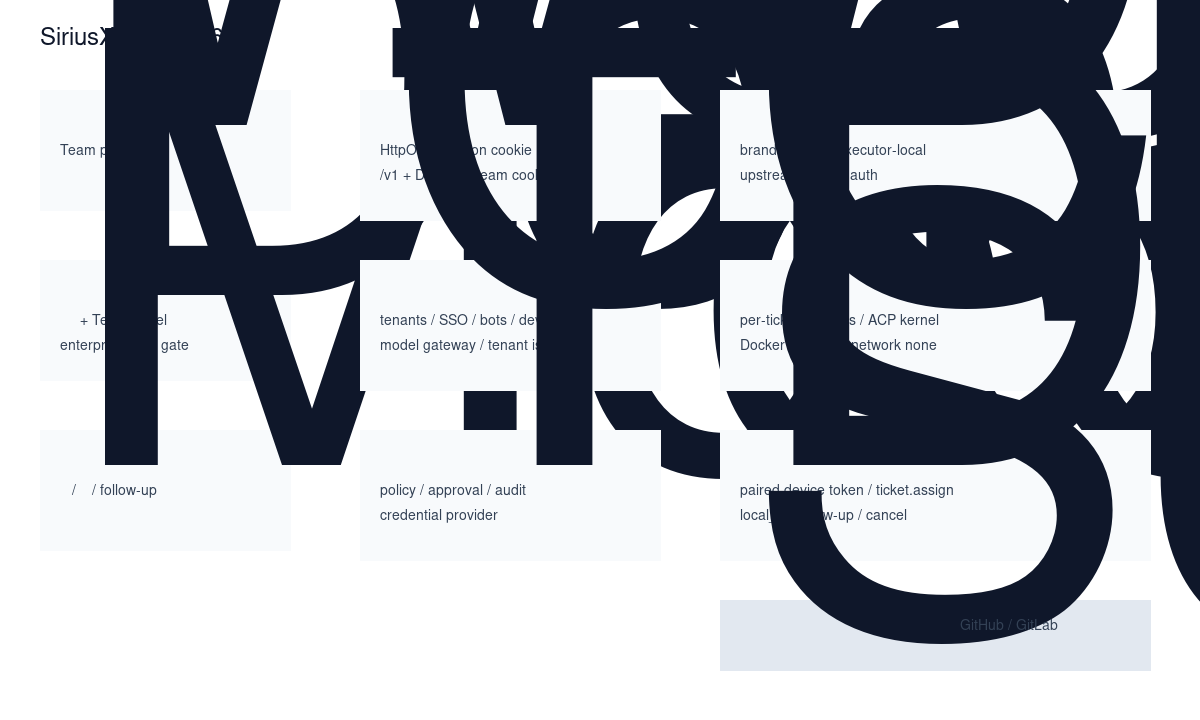
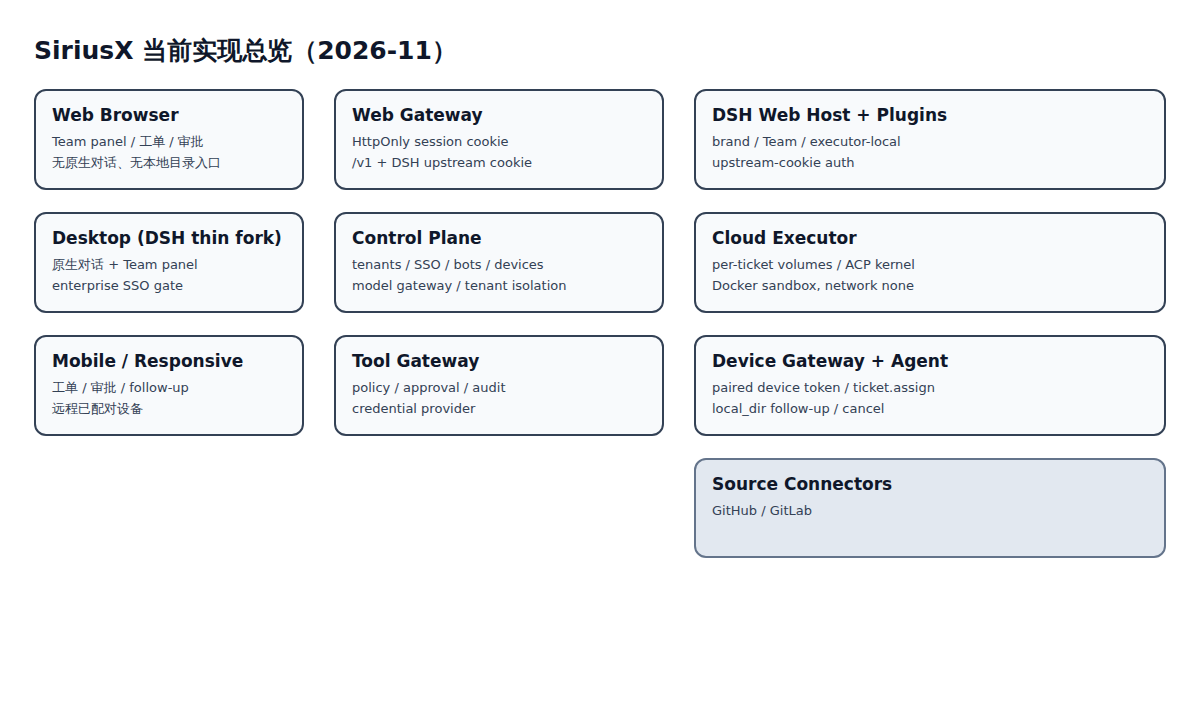
docs: render current architecture diagrams with reliable HTML snapshot

diff --git a/docs/images/current-diagrams.html b/docs/images/current-diagrams.html
@@ -1,0 +1,43 @@
+<!doctype html><meta charset="utf-8">
+<style>
+  body{margin:0;background:#fff;font-family:system-ui,DejaVu Sans,sans-serif;color:#0f172a}
+  .page{position:relative;width:1200px;height:720px;padding:34px;box-sizing:border-box;overflow:hidden}
+  h1{font-size:25px;margin:0 0 22px;font-weight:750}
+  .cols{display:grid;grid-template-columns:270px 330px 1fr;gap:30px}
+  .card{border:2px solid #334155;border-radius:12px;background:#f8fafc;padding:14px 16px;margin-bottom:22px;min-height:100px;box-sizing:border-box}
+  .card h2{font-size:17px;margin:0 0 8px}.card p{margin:3px 0;font-size:13px;color:#334155;line-height:1.35}
+  .g{border-color:#64748b;background:#e2e8f0}
+  .row{display:grid;grid-template-columns:1fr 1fr 1fr;gap:26px}
+  .wide{grid-column:1/-1;min-height:0;margin-top:18px}
+  .arrow{color:#2563eb;font-size:24px;font-weight:700;align-self:center;text-align:center}
+</style>
+<div class="page" id="overview">
+  <h1>SiriusX 当前实现总览（2026-11）</h1>
+  <div class="cols">
+    <div>
+      <div class="card"><h2>Web Browser</h2><p>Team panel / 工单 / 审批</p><p>无原生对话、无本地目录入口</p></div>
+      <div class="card"><h2>Desktop (DSH thin fork)</h2><p>原生对话 + Team panel</p><p>enterprise SSO gate</p></div>
+      <div class="card"><h2>Mobile / Responsive</h2><p>工单 / 审批 / follow-up</p><p>远程已配对设备</p></div>
+    </div>
+    <div>
+      <div class="card"><h2>Web Gateway</h2><p>HttpOnly session cookie</p><p>/v1 + DSH upstream cookie</p></div>
+      <div class="card"><h2>Control Plane</h2><p>tenants / SSO / bots / devices</p><p>model gateway / tenant isolation</p></div>
+      <div class="card"><h2>Tool Gateway</h2><p>policy / approval / audit</p><p>credential provider</p></div>
+    </div>
+    <div>
+      <div class="card"><h2>DSH Web Host + Plugins</h2><p>brand / Team / executor-local</p><p>upstream-cookie auth</p></div>
+      <div class="card"><h2>Cloud Executor</h2><p>per-ticket volumes / ACP kernel</p><p>Docker sandbox, network none</p></div>
+      <div class="card"><h2>Device Gateway + Agent</h2><p>paired device token / ticket.assign</p><p>local_dir follow-up / cancel</p></div>
+      <div class="card g"><h2>Source Connectors</h2><p>GitHub / GitLab</p></div>
+    </div>
+  </div>
+</div>
+<div class="page" id="app" style="display:none">
+  <h1>SiriusX 应用形态（当前）</h1>
+  <div class="row">
+    <div class="card"><h2>Web</h2><p>Team panel：Bot / 工单 / 七阶段 / 审批</p><p>Web Gateway：SSO HttpOnly + /v1 proxy</p><p>不提供原生对话 / 本地目录表单</p></div>
+    <div class="card"><h2>Desktop</h2><p>DSH 原生对话 + 企业登录 gate</p><p>Team panel + 品牌插件</p><p>Local Executor Host 插件：真实 DSH / workdir / diff</p></div>
+    <div class="card"><h2>Mobile</h2><p>响应式 Team panel：390×844 / 审批 / follow-up</p><p>远程设备：local_dir / Stop</p><p>暂不做原生 App，先验响应式 Web</p></div>
+  </div>
+  <div class="card g wide"><h2>共享</h2><p>app-contract · control-plane · bot/device/tool gateways · DSH plugin layer（plugins/ 与 deepseek-harness 同级）</p></div>
+</div>
